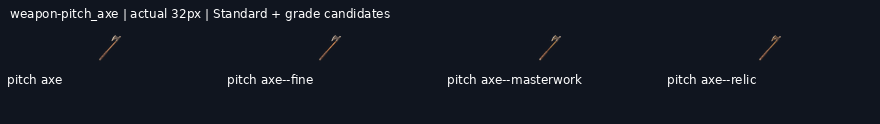
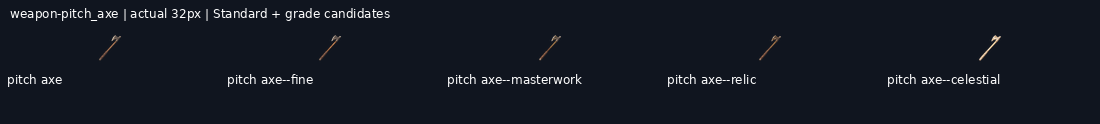
Deliver weapon-pitch_axe--celestial review candidate

diff --git a/art/_archive/gear/2026-11-20-reset-continuation/HANDOFF.md b/art/_archive/gear/2026-11-20-reset-continuation/HANDOFF.md
@@ -1,13 +1,13 @@
 # Reset continuation progress
 
-Branch: `art/2026-11-20-reset-continuation`. New deliveries: 86/114.
+Branch: `art/2026-11-20-reset-continuation`. New deliveries: 87/114.
 
 Shared coordination: https://github.com/leonpentastorm/Project-Heaven-Cry/issues/3 . Read START-HERE.md before extending this queue.
 
 All new entries remain review-candidate; production_approved:false and implementation_ready:false. Exact-outline review remains pending.
 
-Ready jobs: weapon-pitch_axe--celestial, weapon-legion_spear--fine.
+Ready jobs: weapon-legion_spear--fine.
 
-Pending jobs: weapon-hellraiser_rotary--celestial, weapon-purifier_flamer--masterwork, weapon-purifier_flamer--relic, weapon-purifier_flamer--celestial, weapon-dock_cutter--masterwork, weapon-dock_cutter--relic, weapon-dock_cutter--celestial, weapon-broadback_sabre--relic, weapon-broadback_sabre--celestial, weapon-short_draw--fine, weapon-short_draw--masterwork, weapon-short_draw--relic, weapon-short_draw--celestial, weapon-long_draw--fine, weapon-long_draw--masterwork, weapon-long_draw--relic, weapon-long_draw--celestial, weapon-kemizuchi_side_sword--masterwork, weapon-kemizuchi_side_sword--relic, weapon-kemizuchi_side_sword--celestial, weapon-ork_cleaver_glaive--masterwork, weapon-ork_cleaver_glaive--relic, weapon-ork_cleaver_glaive--celestial, weapon-pitch_axe--celestial, weapon-legion_spear--fine, weapon-legion_spear--masterwork, weapon-legion_spear--relic, weapon-legion_spear--celestial.
+Pending jobs: weapon-hellraiser_rotary--celestial, weapon-purifier_flamer--masterwork, weapon-purifier_flamer--relic, weapon-purifier_flamer--celestial, weapon-dock_cutter--masterwork, weapon-dock_cutter--relic, weapon-dock_cutter--celestial, weapon-broadback_sabre--relic, weapon-broadback_sabre--celestial, weapon-short_draw--fine, weapon-short_draw--masterwork, weapon-short_draw--relic, weapon-short_draw--celestial, weapon-long_draw--fine, weapon-long_draw--masterwork, weapon-long_draw--relic, weapon-long_draw--celestial, weapon-kemizuchi_side_sword--masterwork, weapon-kemizuchi_side_sword--relic, weapon-kemizuchi_side_sword--celestial, weapon-ork_cleaver_glaive--masterwork, weapon-ork_cleaver_glaive--relic, weapon-ork_cleaver_glaive--celestial, weapon-legion_spear--fine, weapon-legion_spear--masterwork, weapon-legion_spear--relic, weapon-legion_spear--celestial.
 
 Quota state: null.
